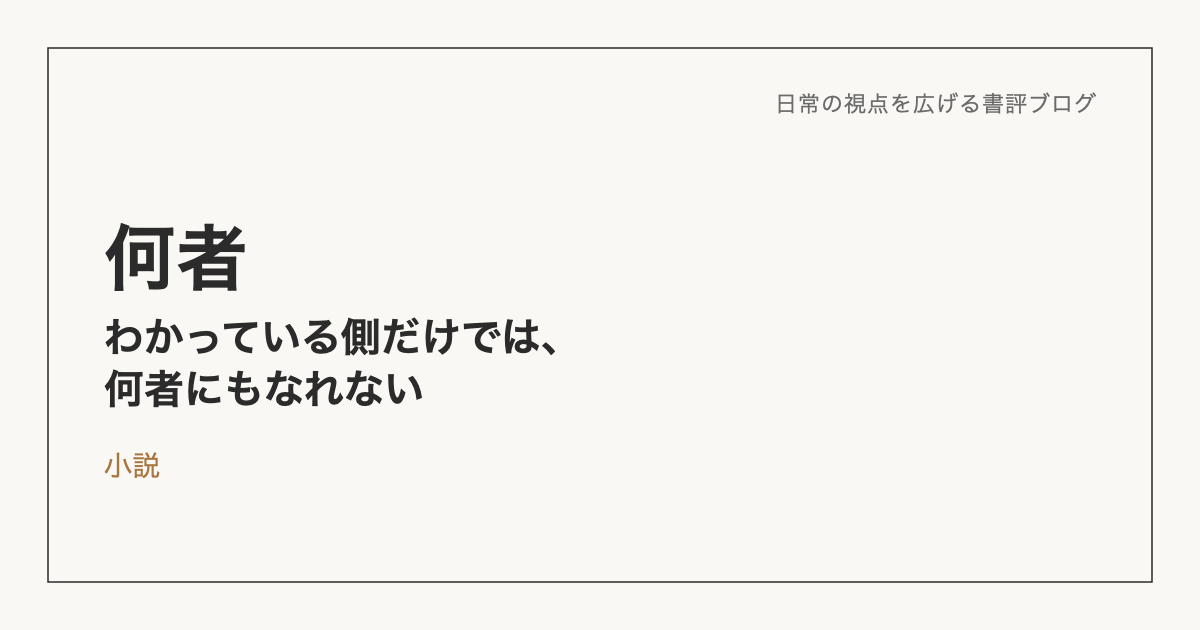
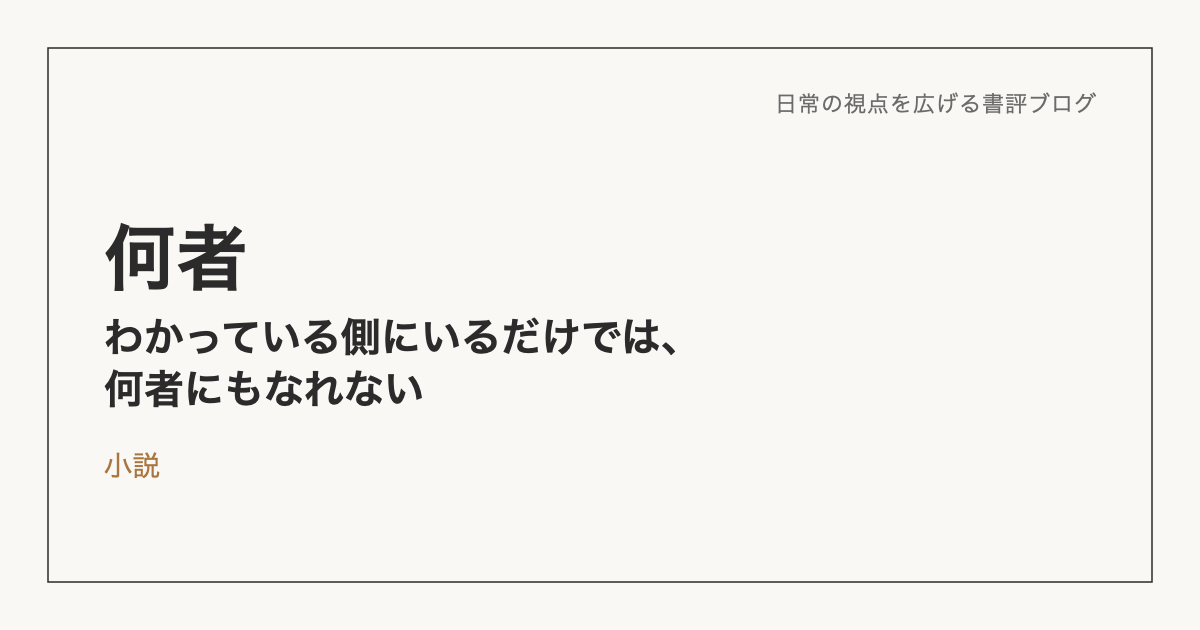
add-book-reviewスキルを追加、何者のサムネイル文言を修正
- 書評記事追加の一連の作業をSkill化（SKILL.md・OGP変換スクリプト・SVG/HTMLテンプレート）
- .gitignoreが.claude/ごと除外していたため、settings.local.jsonのみ除外するよう修正（Skillを追跡対象に）
- 何者のサムネイルで「にいる」が欠落していた誤字を修正

Changed region(s): [[0.3083, 0.4825, 0.555, 0.573]]

diff --git a/.claude/skills/add-book-review/assets/review-template.html b/.claude/skills/add-book-review/assets/review-template.html
@@ -1,0 +1,88 @@
+<!--
+  単体書籍レビュー用テンプレート。{{...}} を実際の値に置き換えて使う。
+  複数冊テーマ記事の場合はこのテンプレートを使わず、SKILL.mdの「複数冊テーマ記事の場合」セクションを参照する。
+
+  【最重要の注意】
+  content="..." 属性値の中にストレートクォート(")が入る場合は、そのままだと属性が壊れる。
+  必ず &quot; にエスケープすること（本文中のh1タグなどは通常のダブルクォートのままでOK、
+  エスケープが要るのは <meta ... content="..."> のようにHTML属性値の内側に入る場合だけ）。
+-->
+<!DOCTYPE html>
+<html lang="ja">
+<head>
+<meta charset="UTF-8">
+<meta name="viewport" content="width=device-width, initial-scale=1.0">
+<!-- Google tag (gtag.js) -->
+<script async src="https://www.googletagmanager.com/gtag/js?id=G-TMXRHLCBLW"></script>
+<script>
+  window.dataLayer = window.dataLayer || [];
+  function gtag(){dataLayer.push(arguments);}
+  gtag('js', new Date());
+  gtag('config', 'G-TMXRHLCBLW');
+</script>
+<title>{{TITLE}}｜日常の視点を広げる書評ブログ</title>
+<meta name="description" content="{{DESCRIPTION}}">
+<meta property="og:type" content="article">
+<meta property="og:site_name" content="日常の視点を広げる書評ブログ">
+<meta property="og:title" content="{{TITLE}}">
+<meta property="og:description" content="{{HOOK}}">
+<meta property="og:image" content="https://hidetana05447.github.io/book-review-blog/images/thumbnails/{{SLUG}}-og.png">
+<meta property="og:url" content="https://hidetana05447.github.io/book-review-blog/reviews/{{SLUG}}.html">
+<meta property="article:published_time" content="{{DATE_ISO}}">
+<meta name="twitter:card" content="summary_large_image">
+<meta name="twitter:title" content="{{TITLE}}">
+<meta name="twitter:description" content="{{HOOK}}">
+<meta name="twitter:image" content="https://hidetana05447.github.io/book-review-blog/images/thumbnails/{{SLUG}}-og.png">
+<link rel="stylesheet" href="../style.css">
+<script type="application/ld+json">
+{
+  "@context": "https://schema.org",
+  "@type": "Review",
+  "itemReviewed": {
+    "@type": "Book",
+    "name": "{{BOOK_NAME}}",
+    "author": {
+      "@type": "Person",
+      "name": "{{AUTHOR}}"
+    }
+  },
+  "author": {
+    "@type": "Organization",
+    "name": "日常の視点を広げる書評ブログ"
+  },
+  "publisher": {
+    "@type": "Organization",
+    "name": "日常の視点を広げる書評ブログ"
+  },
+  "datePublished": "{{DATE_ISO}}",
+  "reviewBody": "{{DESCRIPTION}}",
+  "url": "https://hidetana05447.github.io/book-review-blog/reviews/{{SLUG}}.html"
+}
+</script>
+</head>
+<body>
+<p class="back-link"><a href="../index.html">← 日常の視点を広げる書評ブログ</a></p>
+
+<article class="review">
+  <img class="review-header-image" src="../images/thumbnails/{{SLUG}}.svg" alt="{{BOOK_NAME}}のサムネイル画像">
+  <h1>{{TITLE}}</h1>
+  <p class="review-meta">対象書籍：{{BOOK_NAME}}（{{AUTHOR}}）／ジャンル：{{GENRE}}／公開日：{{DATE_JA}}</p>
+
+  <!--
+    ここから本文。website/CLAUDE.mdの記事フォーマットのルールに従う：
+    - 小見出し(h2)は最小4個〜最大8個。超えそうなら前編・後編に分割
+    - 前半で「この本について」に軽く触れる。著者名を地の文にも自然に入れる
+    - 気づき→日常への当てはめ、という流れを地の文に自然に組み込む
+    - 個人情報（勤務先名・機微な内容・詳細すぎる経歴）は抽象化・伏せ字化する
+    - Notionの感想内に出てくる「ガネーシャ」はキャラとして登場させない。整理された概念だけ、本人の言葉として使う
+  -->
+  <h2>この本について</h2>
+  <p>{{...}}</p>
+
+  <h2>{{見出し2}}</h2>
+  <p>{{...}}</p>
+
+  <p class="ai-note">※本記事はNotionに書き溜めた読書メモをもとに、AIの編集サポートを受けて構成しています。</p>
+</article>
+</body>
+</html>

diff --git a/.claude/skills/add-book-review/SKILL.md b/.claude/skills/add-book-review/SKILL.md
@@ -1,0 +1,95 @@
+---
+name: add-book-review
+description: 書評ブログ「日常の視点を広げる書評ブログ」（secretary/website、GitHub Pages公開、素のHTML/CSS）に新しい書評記事を追加するときに使う。Notionの読書メモを取得して下書きを作り、本人の確認を経てから、サムネイル画像・SEOメタデータ・構造化データ・index.html・sitemap.xmlまで一式仕上げ、ブランチにコミットする一連の作業を行う。「新しい記事を追加したい」「〇〇の書評を書いて」「本の感想をブログに載せたい」「読書メモを記事にして」など、この書評ブログへの記事追加に関する依頼が出たら、明示的に「Skillを使って」と言われなくても必ずこのSkillを使うこと。単体書籍のレビューだけでなく、複数冊にまたがるテーマ記事の追加にも対応する。
+---
+
+# 書評ブログへの記事追加
+
+`secretary/website` にある個人ブログ「日常の視点を広げる書評ブログ」に、新しい書評記事を追加するための一連の作業をまとめたSkill。素のHTML/CSSサイトで、ビルドツールは使わない。
+
+**このSkillを使う前に必ず`website/CLAUDE.md`を読むこと。** サイトのデザイン方針・記事フォーマット・コンテンツ制作フロー・SEOチェックリストなど、内容面のルールはすべてそこに書かれている。このSKILL.mdは「作業の手順と、過去につまずいたポイント」をまとめたものであり、内容ルールそのものを重複して書かない。両方を組み合わせて使うこと。
+
+## 全体の流れ
+
+1. Notionから読書メモを検索・取得する
+2. 下書きを作成し、**本人の確認を得る**（確定させない）
+3. 確認が取れたら、サムネイル画像を作る
+4. 記事HTMLを作る
+5. `index.html` / `sitemap.xml` / `website/CLAUDE.md`（書籍ラインナップ）を更新する
+6. ブランチを切ってコミット・プッシュする（**mainへのマージ・公開は必ず本人の確認後**）
+
+以下、各ステップの詳細と、過去に実際につまずいた注意点。
+
+## ステップ1：Notionから読書メモを取得する
+
+`website/CLAUDE.md`の「コンテンツ制作フロー」にある通り、Notionの「読書フォルダ」データベースが原本。Notion検索ツール（`notion-search`）で書名を検索し、該当ページを`notion-fetch`で取得する。
+
+- 一番上に出てくるページだけでなく、検索結果に**関連する他のメモ**（同じ本について触れている別ノート、テーマ整理メモなど）が出てくることがある。メモが薄い場合や、もっと肉付けしたい場合は、それらも読んで材料にできないか検討する
+- メモの中に「ガネーシャ」というAIキャラとのやり取りが含まれることがある。これはキャラクター・AIの発言として記事に出さない。ただし、そこで整理された概念・視点・解釈は、本人の言葉として地の文に落とし込んで使ってよい
+- メモ内に勤務先名・同僚の実名・体調など個人情報にあたる固有名詞が出てきたら、**指摘を待たずに**下書きの時点で抽象化・伏せ字化を提案する（例：「オープンロジ」「松田さん」→「これまでの仕事」「事業視点を持つ先輩」）
+
+## ステップ2：下書きを作成し、確認を得る
+
+`website/CLAUDE.md`の「記事フォーマット」ルールに従って下書きを書く。ポイント：
+
+- 対象書籍（書名＋著者）、ジャンルタグ、4〜8個程度の小見出し
+- 前半で軽く「あらすじ・この本について」に触れ、著者名を地の文にも自然に入れる（構造化データの`author`情報と対応させるため）
+- 気づき→日常への当てはめ、という流れを地の文に自然に組み込む
+- 「なぜこの本を手に取ったか」は特別なエピソードがあるときだけ
+- 末尾に「※本記事はNotionに書き溜めた読書メモをもとに、AIの編集サポートを受けて構成しています。」の注記
+
+小見出しが8個を超えそうなボリュームになる場合は、無理に1本に収めず「嫌われる勇気」のように前編・後編に分割する（`website/CLAUDE.md`参照）。
+
+**下書きができたら、必ず会話の中で本人に見せて確認を取る。** 確定させてからステップ3以降（ファイル作成・コミット）に進む。修正依頼があれば反映してから再確認する。
+
+## ステップ3：サムネイル画像を作る
+
+1. `assets/thumbnail-template.svg` をコピーし、`{{TITLE}}` `{{HOOK_LINE1}}` `{{HOOK_LINE2}}` `{{GENRE}}` を埋めて `images/thumbnails/<slug>.svg` として保存する
+   - タイトルの文字数に応じたfont-sizeの目安はテンプレート内のコメントを参照
+   - ジャンルタグは、既存記事の付け方（`小説`／`歴史・哲学`／`自己啓発`など、作品形式よりテーマ寄りの言葉）に揃える。迷ったら`reviews/`配下の既存ファイルを1つ`grep`して確認する
+   - フックの一言は、記事のh1見出しをそのまま貼らず、要約・言い換えた短いキャッチコピーにする
+2. `images/thumbnails/`ディレクトリで、同梱スクリプトを実行してOGP用PNGを生成する：
+   ```bash
+   cd images/thumbnails
+   ../.claude/skills/add-book-review/scripts/make_og_png.sh <slug>
+   ```
+   （スクリプトの中身は`qlmanage -t -s 1200`でラスタライズ→`sips -c 630 1200`でセンタークロップ、という`website/CLAUDE.md`記載の手順そのもの）
+3. 生成した`<slug>-og.png`を一度`Read`ツールで開いて、テキストが枠内に収まっているか目視確認する
+
+## ステップ4：記事HTMLを作る
+
+**単体書籍のレビューの場合**：`assets/review-template.html`をコピーし、`{{...}}`プレースホルダーを埋めて`reviews/<slug>.html`として保存する。構造化データは`Review`型。
+
+**複数冊にまたがるテーマ記事の場合**：`Review`型は対象が1冊であることが前提なので使えない。代わりに`Article`型にして、対象書籍群を`about`配列（各要素が`@type: Book`、書名・著者）で紐づける。実例は`reviews/jinsei-no-kabe.html`や`reviews/asai-ryo-matome.html`を参照。関連する単体記事が別にある場合は、まとめ記事から個別記事へ、個別記事からまとめ記事へと相互リンクを張る（`嫌われる勇気`前編・後編、`朝井リョウ作品まとめ`の実例を参照）。
+
+### 絶対に見落とさない注意点
+
+- **`content="..."`属性値の中にストレートクォート(`"`)が入る場合は`&quot;`にエスケープする。** これを忘れると、その属性以降のHTMLが壊れる。テンプレートを埋めたあと、`grep -n 'content="[^"]*"[^ >]'`のようなパターンで見落としがないか確認する習慣をつけるとよい
+- `<img>`タグには必ず内容の分かる`alt`属性を入れる（空にしない）
+- `.review-meta`行に「公開日：YYYY年M月D日」を入れる
+- ファイル名（slug）は既存記事の命名規則（ローマ字読み、ハイフン区切り）に揃える
+
+## ステップ5：一覧ページ・サイトマップ・ラインナップの更新
+
+1. **`index.html`**：
+   - `<script type="application/ld+json">`内の`Blog`構造化データの`blogPost`配列に、新しい記事を`headline`/`url`/`datePublished`付きで追加する
+   - `<ul class="review-list">`内にカードを追加する（サムネイル・ジャンル・タイトル・一言・alt属性・公開日）
+   - **どちらも、公開日が新しい順になる正しい位置に挿入する。末尾に追加するだけで済ませない。** 同じ日付の記事が複数ある場合は、それらの中での順序は文脈に応じて判断してよい
+2. **`sitemap.xml`**：新しい記事のURLを追記する
+3. **`website/CLAUDE.md`の「書籍ラインナップ」**：該当書籍を「第一弾・未着手」から「公開済み」に移動する。複数冊テーマ記事の場合は、対象になった単体書籍が別々に「未着手」に残っていないかも確認する
+
+## ステップ6：ブランチ・コミット・プッシュ
+
+1. `git checkout -b add-review-<slug>`でブランチを切る（すでに未マージの関連ブランチがある場合は、その上に重ねて作ると後々のコンフリクトを避けやすい）
+2. 変更したファイル一式を`git add`してコミットする
+3. `git push -u origin add-review-<slug>`でプッシュする
+
+**mainブランチへのマージ・GitHub Pagesでの公開は、必ず本人の確認を取ってから行う**（`website/CLAUDE.md`の運用ルール）。予約公開したい場合は、クラウド上の予約タスク（ルーティン）は`main`のような保護対象ブランチへの直接pushを安全機構で拒否することが多い（特にこのリポジトリのように`Co-Authored-By: Claude`付きのコミットが`main`の履歴に含まれている場合）。確実なのは、公開したいタイミングで人間から声をかけてもらい、その場で手動マージ・プッシュすること。
+
+## よくあるつまずき（実例ベース）
+
+- **ジャンルタグを既存の付け方と揃え忘れる**：作品形式（「小説」）とテーマ（「歴史・哲学」）が混在しているサイトなので、新規追加時にどちらに寄せるか本人に確認するか、既存の同ジャンル作品を参考にする
+- **エスケープ漏れ**：上記参照。特に複数冊テーマ記事のdescriptionなど、長めの文章で見落としやすい
+- **同じ内容を別のツール（Cursor等）で並行して作業していた場合のファイル名の食い違い**：ローマ字表記のブレ（例：`arujanon` vs `algernon`）で重複ファイルができることがある。作業前に`ls reviews/`と`ls images/thumbnails/`で同名・類似名のファイルがすでに存在しないか確認する
+- **セクション数の目安を超える**：Notionのメモが濃い本だと8個を超えがち。無理に削るより前編・後編分割を検討する
+- **サムネイルのフック文言が、意図せず単語落ちする**：h1タイトルを要約・言い換える際に、うっかり助詞や単語を欠落させたまま書いてしまうことがある（例：「わかっている側にいるだけでは」→「わかっている側だけでは」）。SVGを書いたら、h1と読み比べて意味が変わっていないか確認する
